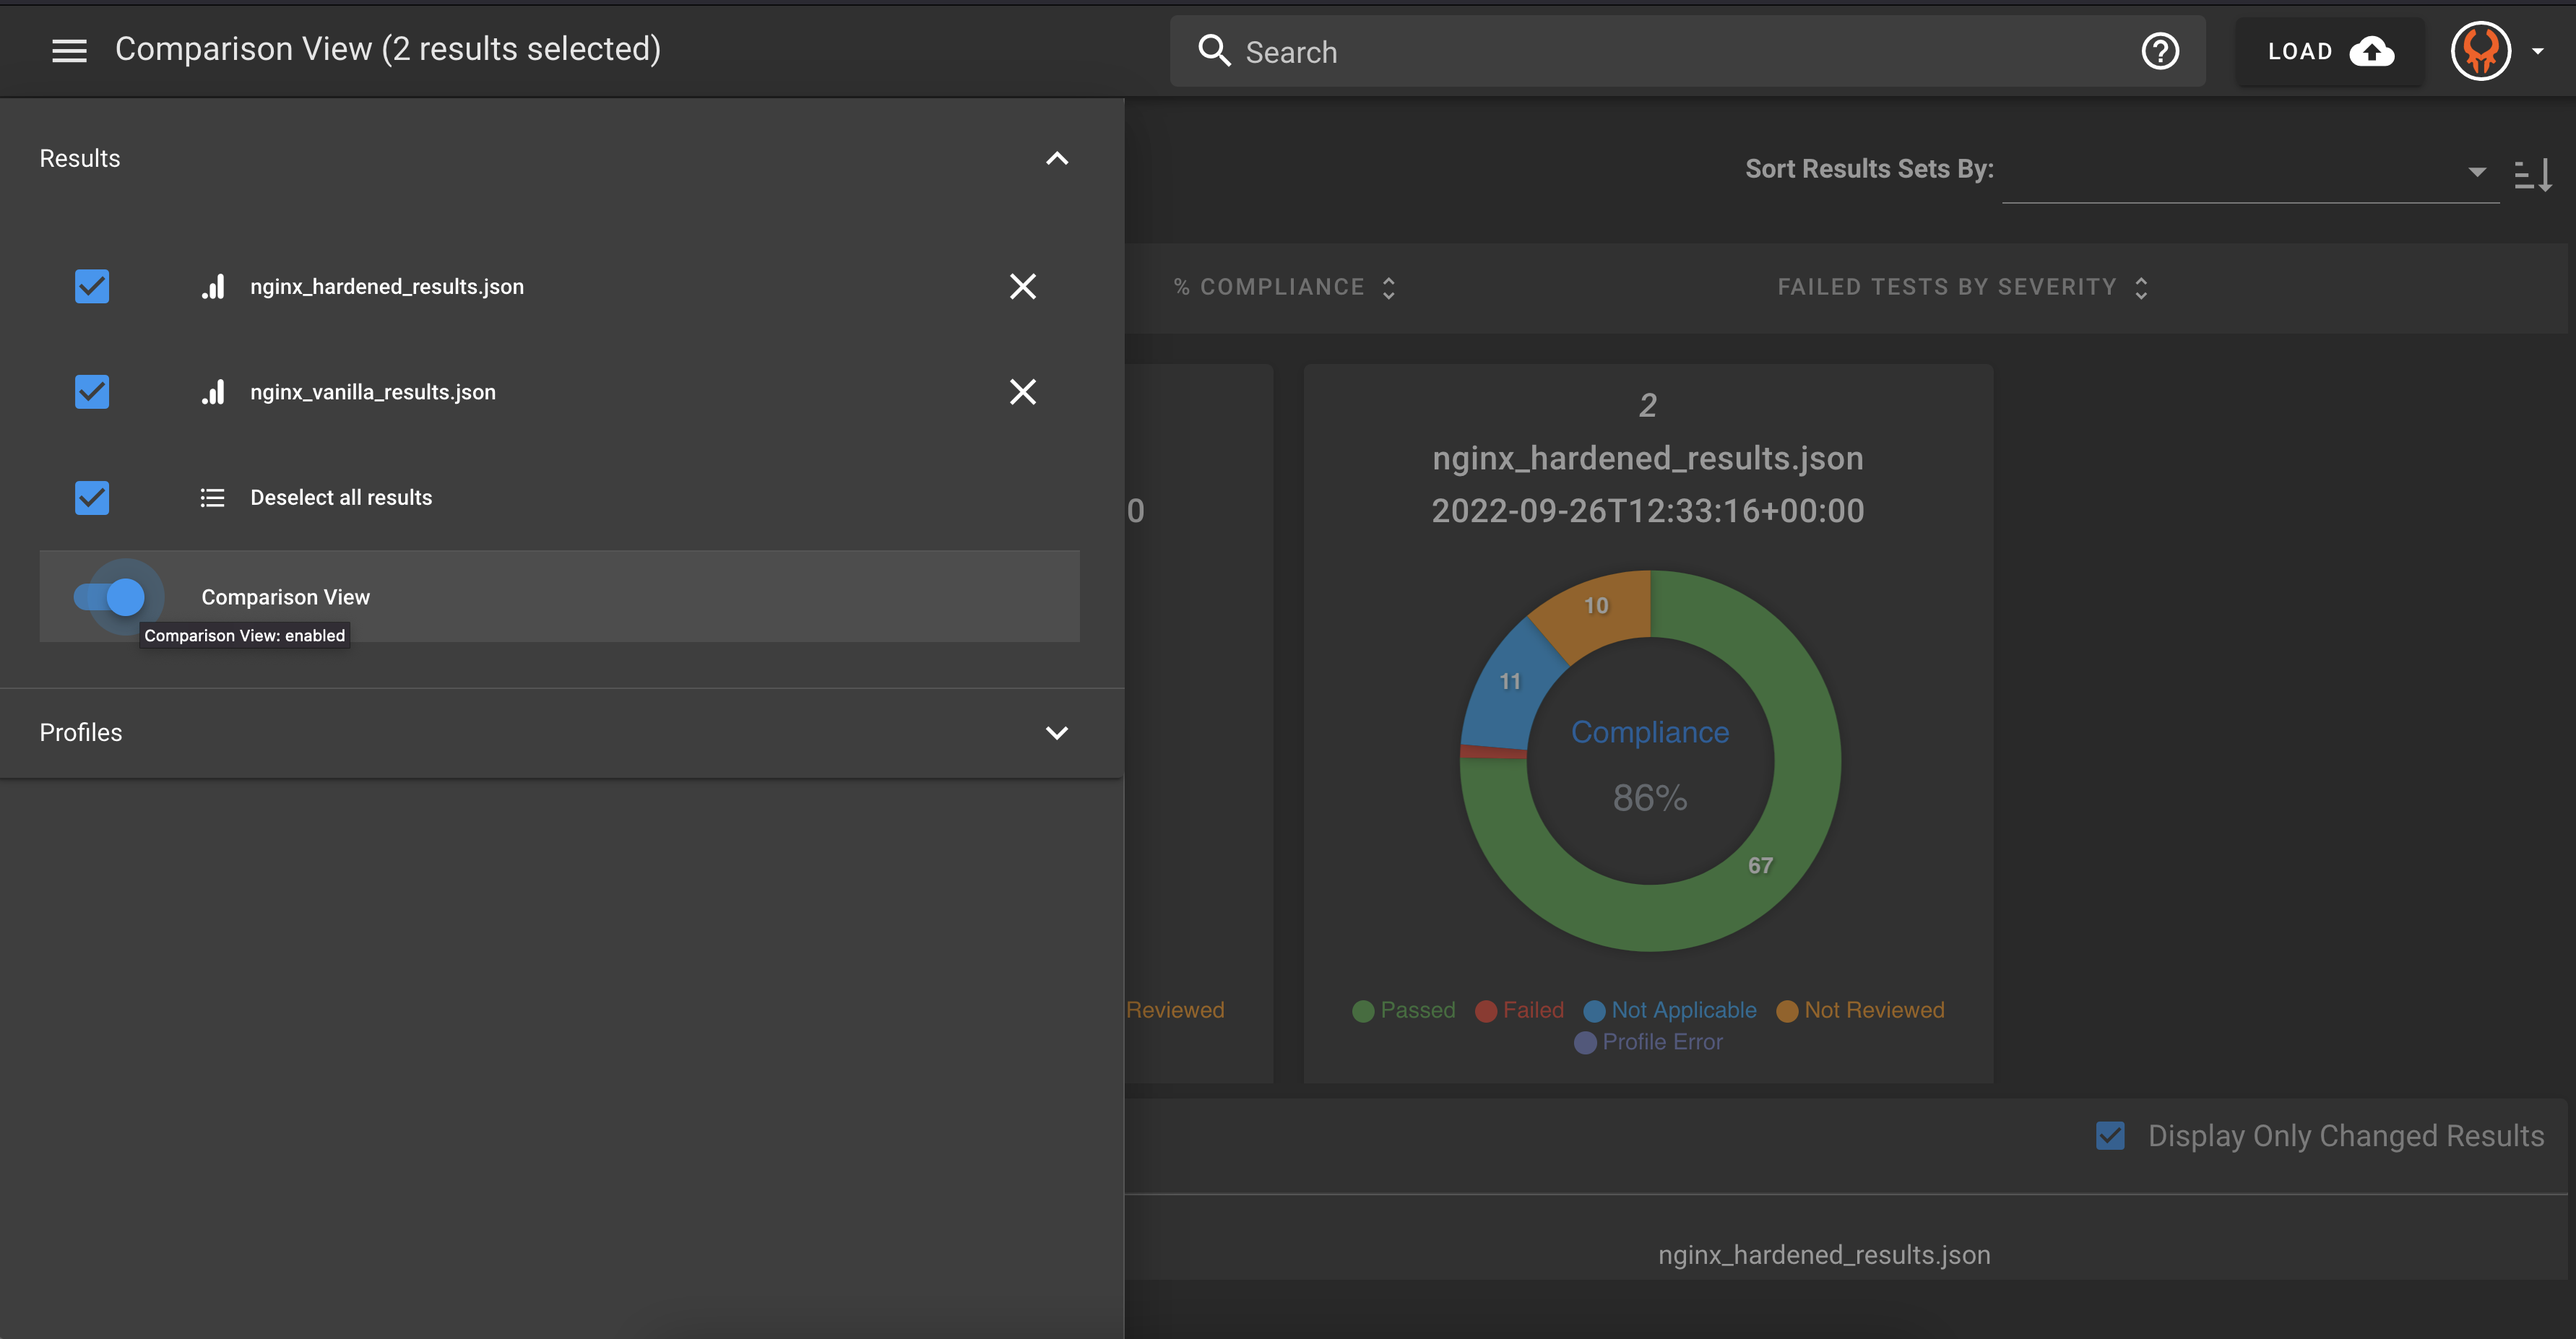
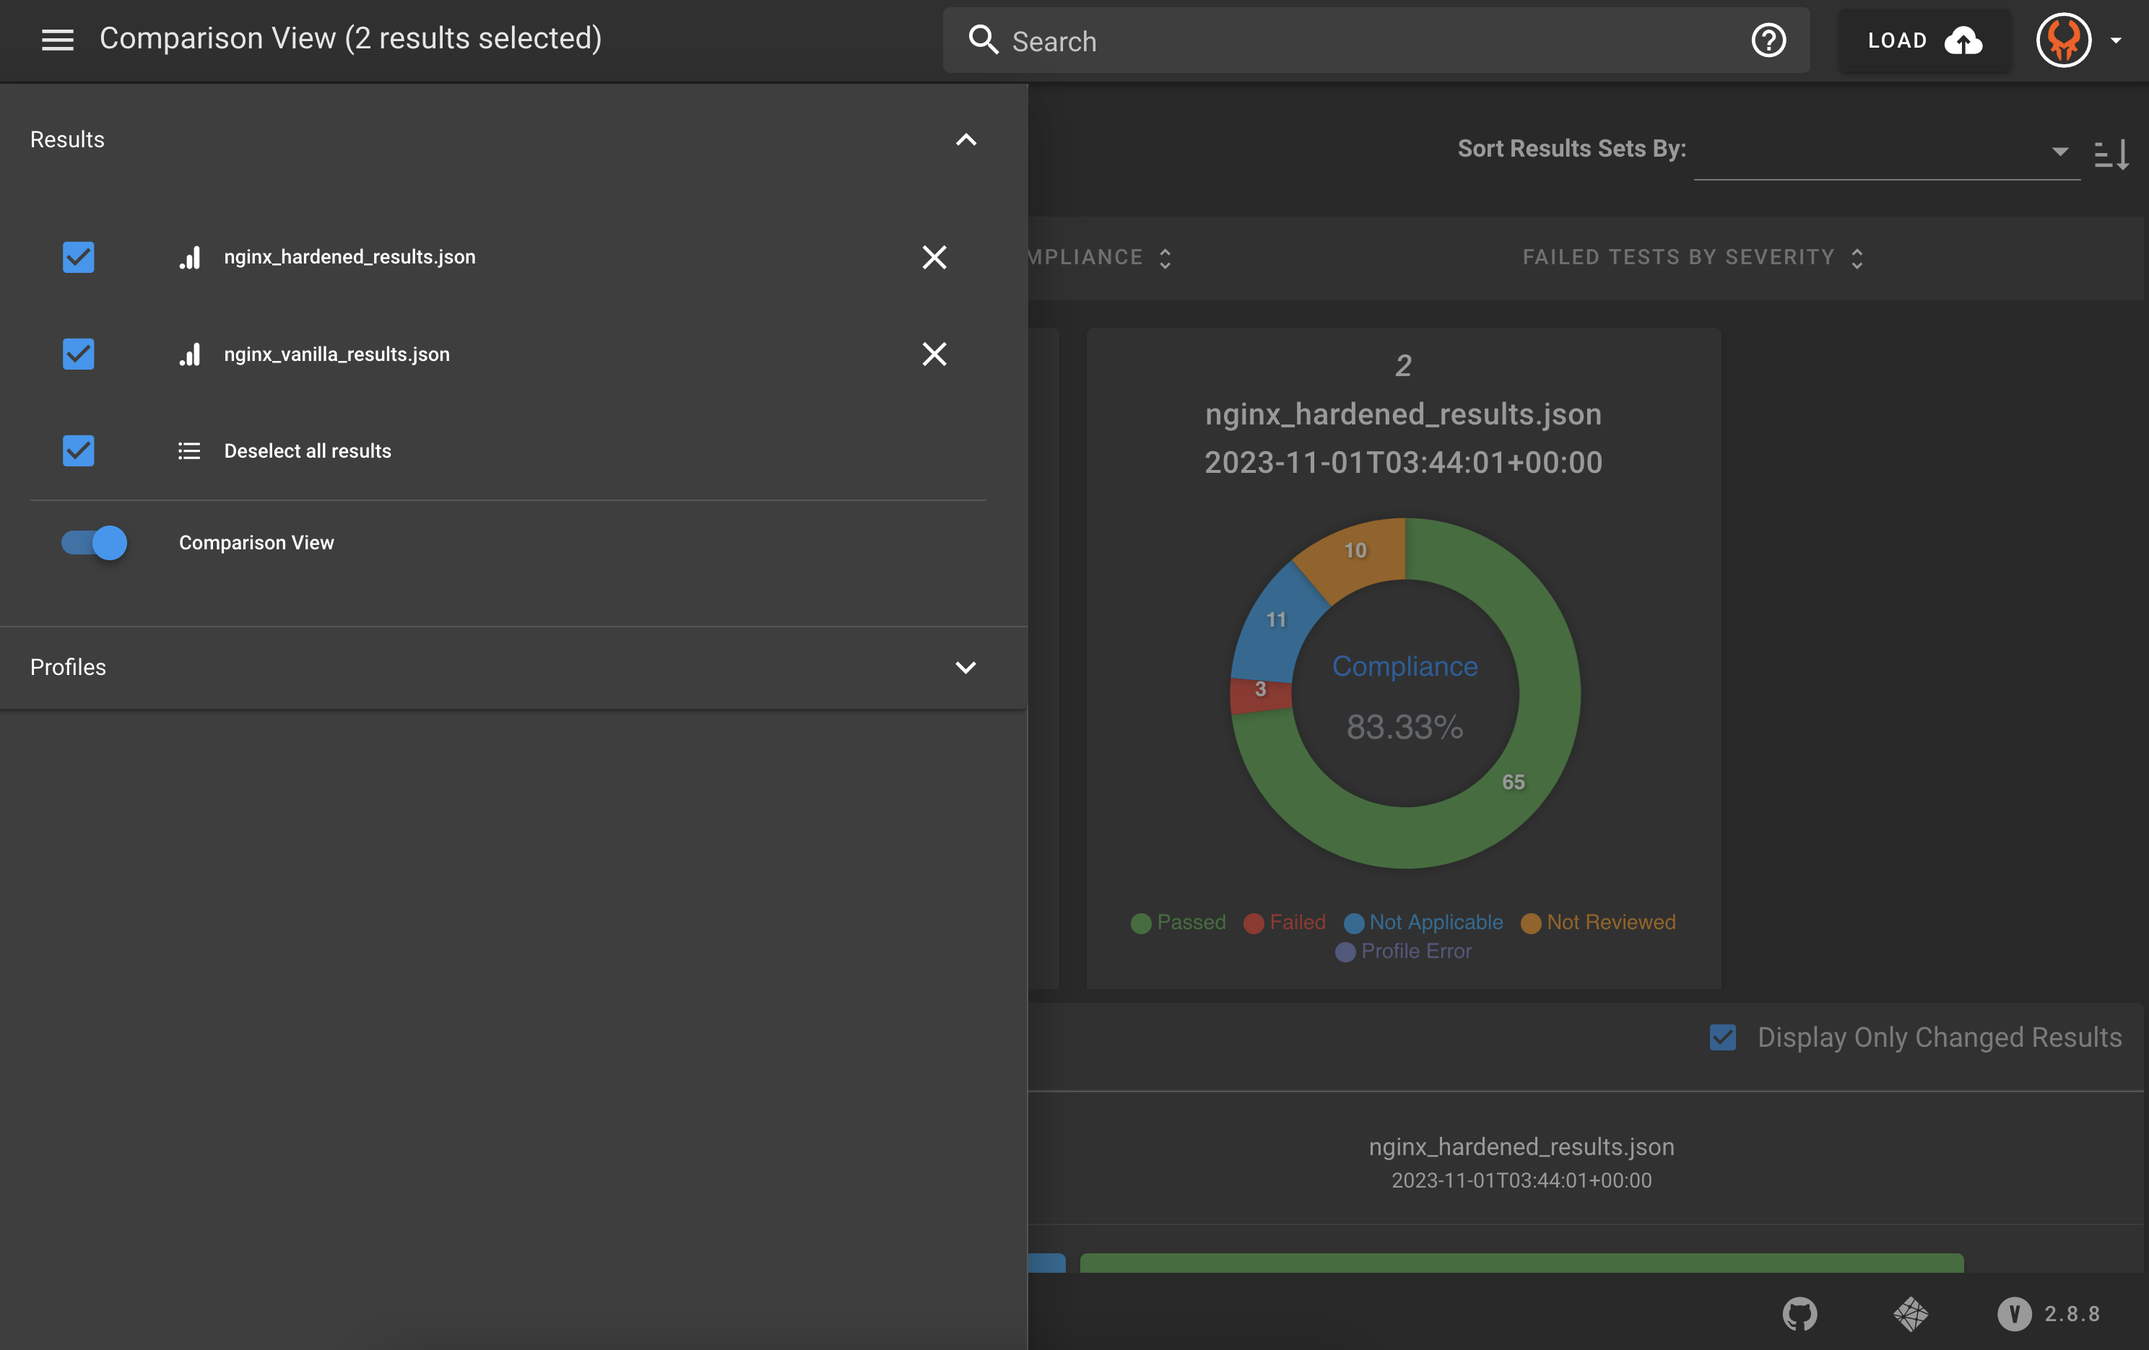
update 10 and 11

diff --git a/courses/user/10.md b/courses/user/10.md
@@ -15,7 +15,7 @@ Finally! We get to secure the software. After starting with a plan, then seeing 
 
 Remember when you perused the hardening content on the SAF site when we talked about the "Plan" pillar? This is where we will find automated content for configuring a software component to some guidance. In this case, we will use the NGINX Stigready Content on the [saf hardening page](https://saf.mitre.org/#/harden).
 
-![Alt text](../../assets/img/SAF_Site_Harden_NGINX.png)
+![Alt text](../../assets/img/SAF_Site_Harden.png)
 
 You could peruse this GitHub repository, including the README and inputs to find out more information, but for this training, we have put any preparation needed for running this hardening content into a pre-script.
 
@@ -23,13 +23,13 @@ You could peruse this GitHub repository, including the README and inputs to find
 
 Just like we saw some requirements for running an InSpec scan, there are also some requirements to run the hardening script on the NGINX container in your Codespaces. We are going to run another setup script for those. 
 
-In your Codespace terminal, run the following commands:
+In your Codespace terminal from your main workspace directory, run the following commands:
 
 ```sh
-source /workspaces/saf-training-lab-environment/hardening-nginx-setup.sh
+source ./hardening-nginx-setup.sh
 ```
 
-This command will make sure that the NGINX docker container has the required software (python) to run the ansible hardening content. This script also downloads the hardening content locally. Unlike the InSpec scan, we will run the hardening content from a local folder rather than from GitHub. Therefore, you should see the `ansible-nginx-stigready-hardening` folder in your files when the script completes.
+This command will make sure that the NGINX docker container has the required software dependencies such as Python to run the Ansible hardening content. This script also downloads the hardening content locally. Unlike the InSpec scan, we will run the hardening content from a local folder rather than from GitHub. Therefore, you should see the `ansible-nginx-stigready-hardening` folder in your files when the script completes.
 
 ![Alt text](../../assets/img/Codespaces_Hardening_Files.png)
 
@@ -37,6 +37,12 @@ This command will make sure that the NGINX docker container has the required sof
 ### 10.3 CLI Results of Hardening Script
 
 You should see the following results from the hardening script. If you run this hardening content multiple times, the numbers in the results may be different because the starting configuration will be different and the script will not have to change the same numbers of settings.
+
+::: note 
+Make sure you are in the ansible content's directory before running the following command. You can run the command
+ `cd ansible-nginx-stigready-hardening`
+ to enter the directory. That means your current working directory path will look something like `/workspaces/saf-training-lab-environment/ansible-nginx-stigready-hardening` with variation if you named your repository differently in the lab setup.
+ :::
 
 Run this command:
 ```sh

diff --git a/courses/user/11.md b/courses/user/11.md
@@ -88,8 +88,8 @@ inspec exec https://github.com/mitre/nginx-stigready-baseline -t docker://nginx 
      ✔  Each cipher found in configuration should be included in the list of ciphers approved to encrypt data
 
 
-Profile Summary: 64 successful controls, 1 control failure, 24 controls skipped
-Test Summary: 297 successful, 1 failure, 24 skipped
+Profile Summary: 62 successful controls, 3 control failures, 24 controls skipped
+Test Summary: 303 successful, 3 failures, 24 skipped
 ```
 
 ### 11.3 Download the Results File
